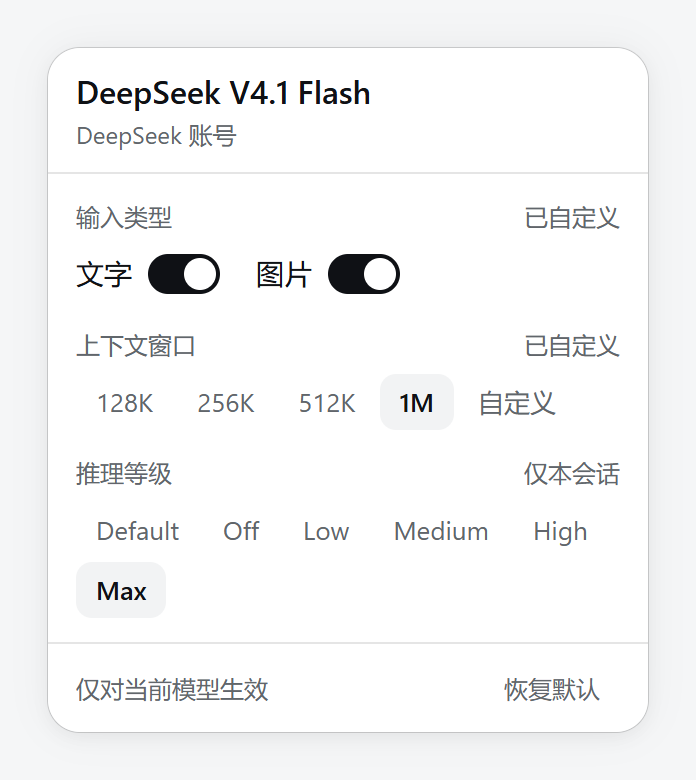
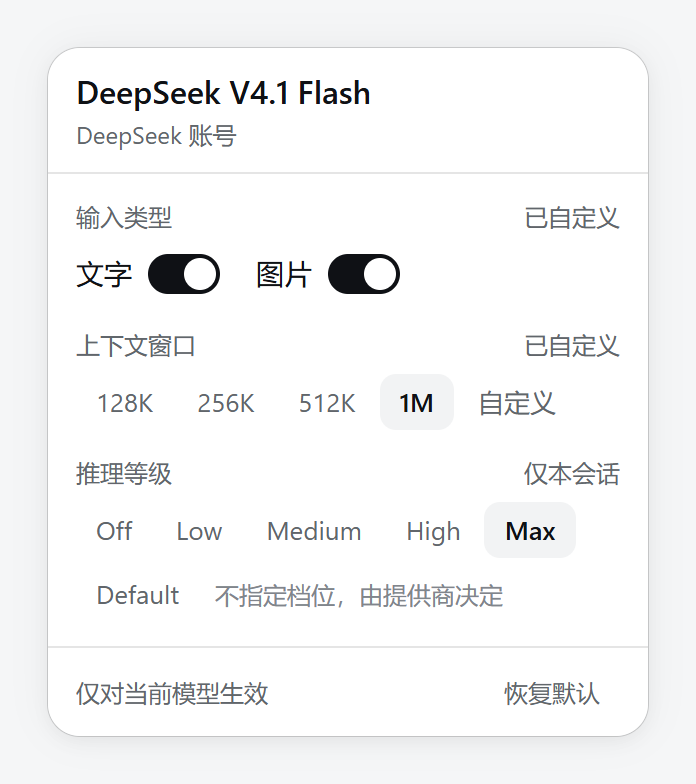
feat: 推理等级拆刻度行与 Default 行，更新参数面板预览

diff --git a/lib/client.js b/lib/client.js
@@ -252,6 +252,7 @@ window.__ModuleLoader__.load({
       "settings.context.placeholderExample": "例如 128K",
       "settings.context.invalid": "读不出这个数值：请写 128K、1M 或 131072，范围 1024–10485760",
       "settings.effort.title": "推理等级",
+      "settings.effort.providerDefaultHint": "不指定档位，由提供商决定",
       "settings.source.declared": "已自定义",
       "settings.source.catalog": "内置目录",
       "settings.source.default": "适配器默认",
@@ -332,6 +333,7 @@ window.__ModuleLoader__.load({
       "settings.context.placeholderExample": "e.g. 128K",
       "settings.context.invalid": "That is not a capacity: use 128K, 1M or 131072, between 1024 and 10485760",
       "settings.effort.title": "Reasoning effort",
+      "settings.effort.providerDefaultHint": "No level; the provider decides",
       "settings.source.declared": "Customized",
       "settings.source.catalog": "Catalog",
       "settings.source.default": "Adapter default",
@@ -6120,10 +6122,10 @@ window.__ModuleLoader__.load({
       return reasoning.efforts.find((level) => level.id === effort)?.name ?? effort;
     }
     function effortChoicesOf(reasoning, t2) {
-      return [
-        ...reasoning.defaultEffort === void 0 ? [{ key: "provider-default", effort: void 0, label: t2("effort.providerDefault") }] : [],
-        ...reasoning.efforts.map((level) => ({ key: `effort:${level.id}`, effort: level.id, label: level.name }))
-      ];
+      return {
+        scale: reasoning.efforts.map((level) => ({ key: `effort:${level.id}`, effort: level.id, label: level.name })),
+        ...reasoning.defaultEffort === void 0 ? { providerDefault: { key: "provider-default", effort: void 0, label: t2("effort.providerDefault") } } : {}
+      };
     }
     
     var CHAIN_SELECTOR = "a[href], button, input, select, textarea, [tabindex]";
@@ -6392,7 +6394,7 @@ window.__ModuleLoader__.load({
       const model = route === null ? null : modelOf(directory, route);
       const reasoning = model?.reasoning;
       const choices = (0, import_react6.useMemo)(
-        () => reasoning === void 0 ? [] : effortChoicesOf(reasoning, t2),
+        () => reasoning === void 0 ? { scale: [] } : effortChoicesOf(reasoning, t2),
         [reasoning, t2]
       );
       const activeEffort = current?.reasoningEffort ?? reasoning?.defaultEffort;
@@ -6401,6 +6403,7 @@ window.__ModuleLoader__.load({
       const inputLabelId = `${idPrefix}-settings-input-label`;
       const contextLabelId = `${idPrefix}-settings-context-label`;
       const effortLabelId = `${idPrefix}-settings-effort-label`;
+      const effortDefaultHintId = `${idPrefix}-settings-effort-default-hint`;
       const copyState = { address, capability, snapshot, capacityError };
       const noticeLine = noticeOf(copyState);
       const sectionNotice = noticeLine === null ? null : t2(noticeLine.key, noticeLine.params);
@@ -6594,6 +6597,22 @@ window.__ModuleLoader__.load({
           ...effort === void 0 ? {} : { reasoningEffort: effort }
         });
       };
+      const effortOption = (choice, describedBy) => /* @__PURE__ */ (0, import_jsx_runtime8.jsx)(
+        "button",
+        {
+          type: "button",
+          role: "radio",
+          "aria-checked": choice.effort === activeEffort,
+          "aria-describedby": describedBy,
+          className: "dmp-effort-item",
+          "aria-disabled": busy || void 0,
+          onClick: () => {
+            pickEffort(choice.effort);
+          },
+          children: choice.label
+        },
+        choice.key
+      );
       if (route === null) return null;
       const notice = writeError !== null ? /* @__PURE__ */ (0, import_jsx_runtime8.jsxs)("div", { className: "dmp-settings-alert", role: "alert", children: [
         /* @__PURE__ */ (0, import_jsx_runtime8.jsx)(import_dsh_client_ui_primitives2.IconWarningOutlineRegular, { className: "dmp-settings-alert-icon" }),
@@ -6738,21 +6757,13 @@ window.__ModuleLoader__.load({
                     /* @__PURE__ */ (0, import_jsx_runtime8.jsx)("span", { className: "zmd-label", id: effortLabelId, children: t2("settings.effort.title") }),
                     /* @__PURE__ */ (0, import_jsx_runtime8.jsx)("span", { className: "dmp-settings-source", children: t2("settings.source.session") })
                   ] }),
-                  /* @__PURE__ */ (0, import_jsx_runtime8.jsx)("div", { className: "dmp-effort-list", role: "radiogroup", "aria-labelledby": effortLabelId, children: choices.map((choice) => /* @__PURE__ */ (0, import_jsx_runtime8.jsx)(
-                    "button",
-                    {
-                      type: "button",
-                      role: "radio",
-                      "aria-checked": choice.effort === activeEffort,
-                      className: "dmp-effort-item",
-                      "aria-disabled": busy || void 0,
-                      onClick: () => {
-                        pickEffort(choice.effort);
-                      },
-                      children: choice.label
-                    },
-                    choice.key
-                  )) })
+                  /* @__PURE__ */ (0, import_jsx_runtime8.jsxs)("div", { className: "dmp-effort-rows", role: "radiogroup", "aria-labelledby": effortLabelId, children: [
+                    choices.scale.length > 0 && /* @__PURE__ */ (0, import_jsx_runtime8.jsx)("div", { className: "dmp-effort-scale", children: choices.scale.map((choice) => effortOption(choice)) }),
+                    choices.providerDefault !== void 0 && /* @__PURE__ */ (0, import_jsx_runtime8.jsxs)("div", { className: "dmp-effort-default", children: [
+                      effortOption(choices.providerDefault, effortDefaultHintId),
+                      /* @__PURE__ */ (0, import_jsx_runtime8.jsx)("span", { className: "dmp-effort-hint", id: effortDefaultHintId, children: t2("settings.effort.providerDefaultHint") })
+                    ] })
+                  ] })
                 ] })
               ] }),
               /* @__PURE__ */ (0, import_jsx_runtime8.jsxs)("div", { className: "dmp-settings-foot", children: [
@@ -8711,13 +8722,38 @@ window.__ModuleLoader__.load({
       white-space: nowrap;
     }
     
-    .dmp-effort-list,
+    .dmp-effort-rows {
+      display: flex;
+      flex-direction: column;
+      gap: 4px;
+    }
+    
+    .dmp-effort-scale,
     .dmp-context-presets {
       display: flex;
       flex-direction: row;
       flex-wrap: wrap;
       align-items: center;
       gap: 2px;
+    }
+    
+    .dmp-effort-scale {
+      row-gap: 4px;
+    }
+    
+    .dmp-effort-default {
+      display: flex;
+      align-items: center;
+      gap: 8px;
+      min-height: 28px;
+    }
+    
+    .dmp-effort-hint {
+      flex: 0 1 auto;
+      min-width: 0;
+      color: var(--zmd-ink-mute);
+      font-size: 12px;
+      line-height: 18px;
     }
     
     .dmp-effort-item,

diff --git a/src/client/SettingsMenu.tsx b/src/client/SettingsMenu.tsx
@@ -11,7 +11,7 @@ import {
   type ModelSelection, type ParamsFace, type ParamsSnapshot, type RouteAddress, type RouteCapability,
   type SettingsOp, type Translate,
 } from './contract.ts'
-import { effortChoicesOf } from './effort.ts'
+import { effortChoicesOf, type EffortChoice, type EffortChoices } from './effort.ts'
 import { formatWindow } from './format.ts'
 import {
   capacityAction, contextFactOf, contextFieldOf, FACT_SOURCE_KEYS, inputSourceOf, modalityLabel,
@@ -95,8 +95,8 @@ export function SettingsMenu({
   }, [capabilities, route?.provider])
   const model = route === null ? null : modelOf(directory, route)
   const reasoning = model?.reasoning
-  const choices = useMemo(
-    () => reasoning === undefined ? [] : effortChoicesOf(reasoning, t),
+  const choices = useMemo<EffortChoices>(
+    () => reasoning === undefined ? { scale: [] } : effortChoicesOf(reasoning, t),
     [reasoning, t],
   )
   const activeEffort = current?.reasoningEffort ?? reasoning?.defaultEffort
@@ -105,6 +105,7 @@ export function SettingsMenu({
   const inputLabelId = `${idPrefix}-settings-input-label`
   const contextLabelId = `${idPrefix}-settings-context-label`
   const effortLabelId = `${idPrefix}-settings-effort-label`
+  const effortDefaultHintId = `${idPrefix}-settings-effort-default-hint`
 
   const copyState = { address, capability, snapshot, capacityError } as const
   const noticeLine = noticeOf(copyState)
@@ -318,6 +319,21 @@ export function SettingsMenu({
     })
   }
 
+  const effortOption = (choice: EffortChoice, describedBy?: string): ReactNode => (
+    <button
+      key={choice.key}
+      type="button"
+      role="radio"
+      aria-checked={choice.effort === activeEffort}
+      aria-describedby={describedBy}
+      className="dmp-effort-item"
+      aria-disabled={busy || undefined}
+      onClick={() => { pickEffort(choice.effort) }}
+    >
+      {choice.label}
+    </button>
+  )
+
   if (route === null) return null
 
   const notice: ReactNode = writeError !== null
@@ -465,20 +481,20 @@ export function SettingsMenu({
               <span className="zmd-label" id={effortLabelId}>{t('settings.effort.title')}</span>
               <span className="dmp-settings-source">{t('settings.source.session')}</span>
             </div>
-            <div className="dmp-effort-list" role="radiogroup" aria-labelledby={effortLabelId}>
-              {choices.map(choice => (
-                <button
-                  key={choice.key}
-                  type="button"
-                  role="radio"
-                  aria-checked={choice.effort === activeEffort}
-                  className="dmp-effort-item"
-                  aria-disabled={busy || undefined}
-                  onClick={() => { pickEffort(choice.effort) }}
-                >
-                  {choice.label}
-                </button>
-              ))}
+            <div className="dmp-effort-rows" role="radiogroup" aria-labelledby={effortLabelId}>
+              {choices.scale.length > 0 && (
+                <div className="dmp-effort-scale">
+                  {choices.scale.map(choice => effortOption(choice))}
+                </div>
+              )}
+              {choices.providerDefault !== undefined && (
+                <div className="dmp-effort-default">
+                  {effortOption(choices.providerDefault, effortDefaultHintId)}
+                  <span className="dmp-effort-hint" id={effortDefaultHintId}>
+                    {t('settings.effort.providerDefaultHint')}
+                  </span>
+                </div>
+              )}
             </div>
           </div>
         )}

diff --git a/src/client/effort.ts b/src/client/effort.ts
@@ -6,16 +6,21 @@ export interface EffortChoice {
   readonly label: string
 }
 
+export interface EffortChoices {
+  readonly scale: readonly EffortChoice[]
+  readonly providerDefault?: EffortChoice
+}
+
 export function effortLabelOf(reasoning: ModelReasoning, effort: string | undefined, t: Translate): string {
   if (effort === undefined) return t('effort.providerDefault')
   return reasoning.efforts.find(level => level.id === effort)?.name ?? effort
 }
 
-export function effortChoicesOf(reasoning: ModelReasoning, t: Translate): EffortChoice[] {
-  return [
+export function effortChoicesOf(reasoning: ModelReasoning, t: Translate): EffortChoices {
+  return {
+    scale: reasoning.efforts.map(level => ({ key: `effort:${level.id}`, effort: level.id, label: level.name })),
     ...reasoning.defaultEffort === undefined
-      ? [{ key: 'provider-default', effort: undefined, label: t('effort.providerDefault') }]
-      : [],
-    ...reasoning.efforts.map(level => ({ key: `effort:${level.id}`, effort: level.id, label: level.name })),
-  ]
+      ? { providerDefault: { key: 'provider-default', effort: undefined, label: t('effort.providerDefault') } }
+      : {},
+  }
 }

diff --git a/src/client/dictionary.ts b/src/client/dictionary.ts
@@ -75,6 +75,7 @@ export const zh: Record<string, string> = {
   'settings.context.placeholderExample': '例如 128K',
   'settings.context.invalid': '读不出这个数值：请写 128K、1M 或 131072，范围 1024–10485760',
   'settings.effort.title': '推理等级',
+  'settings.effort.providerDefaultHint': '不指定档位，由提供商决定',
   'settings.source.declared': '已自定义',
   'settings.source.catalog': '内置目录',
   'settings.source.default': '适配器默认',
@@ -156,6 +157,7 @@ export const en: Record<string, string> = {
   'settings.context.placeholderExample': 'e.g. 128K',
   'settings.context.invalid': 'That is not a capacity: use 128K, 1M or 131072, between 1024 and 10485760',
   'settings.effort.title': 'Reasoning effort',
+  'settings.effort.providerDefaultHint': 'No level; the provider decides',
   'settings.source.declared': 'Customized',
   'settings.source.catalog': 'Catalog',
   'settings.source.default': 'Adapter default',

diff --git a/src/client/styles.ts b/src/client/styles.ts
@@ -923,13 +923,38 @@ const CSS = `
   white-space: nowrap;
 }
 
-.dmp-effort-list,
+.dmp-effort-rows {
+  display: flex;
+  flex-direction: column;
+  gap: 4px;
+}
+
+.dmp-effort-scale,
 .dmp-context-presets {
   display: flex;
   flex-direction: row;
   flex-wrap: wrap;
   align-items: center;
   gap: 2px;
+}
+
+.dmp-effort-scale {
+  row-gap: 4px;
+}
+
+.dmp-effort-default {
+  display: flex;
+  align-items: center;
+  gap: 8px;
+  min-height: 28px;
+}
+
+.dmp-effort-hint {
+  flex: 0 1 auto;
+  min-width: 0;
+  color: var(--zmd-ink-mute);
+  font-size: 12px;
+  line-height: 18px;
 }
 
 .dmp-effort-item,

diff --git a/docs/adr/0013-reasoning-effort-two-rows.md b/docs/adr/0013-reasoning-effort-two-rows.md
@@ -1,0 +1,52 @@
+# ADR 0013 — 推理等级改「刻度行 + Default 行」：Default 不是档位，Off 仍是刻度起点
+
+- 状态：已采纳（2026-10-19）
+- 相关：`src/client/effort.ts`、`src/client/SettingsMenu.tsx`、`src/client/styles.ts`、`src/client/dictionary.ts`
+- 相关决定：ADR [0012](0012-parameter-panel-readout.md)（参数面板读数优先）、`CONTEXT.md`「推理等级选择」
+
+## 背景
+
+推理等级原来是一组平铺胶囊：Default（`defaultEffort` 未声明时才有）+ 适配器声明的全部档位。300px 面板的内容宽 272px，六项按 13/20、10px 内边距量是 312.5px（Default 61.5 / Off 38 / Low 43 / Medium 67.5 / High 47 / Max 45.5 + 5×2 缝）；前五项 265px，Max 放不下，掉到第二行。实测与截图一致。
+
+这不是单个模型的偶发换行：档位名由适配器声明，目前 schema 允许 off / minimal / low / medium / high / xhigh / max 七档；六档就约 317px，即使没有 Default，刻度自己也会换行。把字号或水平内边距压小去换单行，会破坏宿主字阶和点击面，而且对更长、更多的档位仍然不成立。
+
+更根本的问题是三类东西被放进了同一条一维序列：
+
+1. **Default** 是 `effort === undefined` 的「不指定」，由插件生成；只有 `defaultEffort` 未声明时才出现。它不是档位。
+2. **Off** 是适配器声明的档位，语义上是刻度的 0 点（Off < Low < Medium < High < Max）。它在配置页里的特殊性（不用填 API 值）属于编辑器校验，不是选择器的排序语义。
+3. **Low…Max** 是同一根轴上的有序档位。
+
+平铺让 Default 和 Off 看起来像「低于 Low 的两档」，而换行又把 Max 推成孤儿；宽度的偶然性和语义的偶然性叠在一起。
+
+## 决定
+
+1. 推理等级分成两行：第一行是适配器声明的全部档位，按声明顺序渲染（不排序、不重排）；第二行是 Default，只在它存在时出现。
+2. Default 仍属于同一个 `radiogroup`，仍用同一种胶囊；旁边加一句 12/18 注释「不指定档位，由提供商决定」（英文「No level; the provider decides」），用 `--zmd-ink-mute`，让第二行是「另一种状态」而不是被挤下来的孤儿。
+3. DOM 顺序与视觉顺序一致：刻度先、Default 后。禁止用 CSS `order` 把 Default 挪到下面——Tab 顺序和 `chain()` 会错。
+4. 档位行保留 2px 列距，换行时用 4px 行距（`.dmp-effort-scale { row-gap: 4px }`）；换行时第二行读成刻度的续行，而不是另一组选项。
+5. 不把 Off 抽成特殊项：选择器没有 severity 可读，要抽只能硬编码 `id === 'off'` 或假设第一项是 Off；两者都会在「模型没声明 Off」或「声明顺序不同」时出错。
+6. Default 不出现时（提供商声明了 `defaultEffort`），只剩刻度行；不预留空行。
+7. 这是呈现改动：`reasoningEffort` 的取值、会话级、写入路径、只读行为、`effortChoicesOf` 的 `effort` 语义都不变。
+
+## 取舍
+
+- **放弃「一排塞下六项」**：313px > 272px 是结构性的；压字号/padding 只能暂时过关，且与宿主字阶冲突。
+- **放弃 B「Default + Off 一行，刻度一行」**：视觉上更整齐，但 Off 离开刻度起点，且两个条件项都可能缺席（Default 需要没有 `defaultEffort`，Off 可以被删），组会塌；它把「未指定」（不发送值）和「显式 off」（发送一个值）说成同一类。
+- **放弃把 Default 做成 `.zmd-btn-ghost` 文字动作**：页脚已有「恢复默认」（重置上下文/输入），两个「默认」动作在同一面板里会打架；胶囊 + 注释仍是 radio 语法。
+- **放弃下拉、横向滚动、折叠**：ADR 0012 已经因为「当前值和可选项不能同时看见」否掉了下拉；横向滚动会把选项藏起来。
+- **保留 4px 行距**：2px 时换行像一整块密集菜单；4px 足够读出「续行」，又不多占高度。
+
+## 后果
+
+- `.dmp-effort-list` 退役，新增 `.dmp-effort-rows` / `.dmp-effort-scale` / `.dmp-effort-default` / `.dmp-effort-hint`；`.dmp-effort-item`、选中态、hover、focus、禁用态、`chain()` 选择器都不变。
+- 新增文案键 `settings.effort.providerDefaultHint`；中英同键同序。
+- 这个模型（Off/Low/Medium/High/Max + Default）从「2 行、Max 孤儿」变成「刻度 1 行 + Default 1 行」，高度基本不变（约 60px）。6–7 档时刻度自己会换到第二行，加 Default 共 3 行（约 92px），仍在参数面板 460px 上限内；展开自定义上下文输入框时需静态复核。
+- 选中态字重 400→500 会让胶囊宽 1–2.5px；5 档刻度有约 23px 余量，不会因选中改变换行点。6 档时第一行只剩 0.5–2.5px 余量，选中可能改变换行点；这轮不预先加「隐藏 semibold 占位」，真机若看到抖动再补。
+- 只在静态 fixture 里按 300px、13/20、10px 内边距测量和中英预览；**不是真机验收**，宿主字体（尤其 macOS）与浏览器缩放可能让断点略有差异。
+
+## 备选（未采用）
+
+- **只把 Default 挪到列表末尾**：第二行仍然是一个没有解释的孤儿，换行点随宽度漂移。
+- **把 Default 与 Off 并成「特殊项」组**：见取舍。
+- **把 Default 放进读数行**：读数行是值/来源的语义，且右端已有 88px 的「仅本会话」；把控件塞进去会读成当前值，不是选项。
+- **用网格/折叠消灭所有孤儿**：改动大于收益；6 档以上的换行仍是可接受的刻度续行。

diff --git a/CONTEXT.md b/CONTEXT.md
@@ -125,6 +125,7 @@
 | 列头 | 模型列表顶部那行 11/16 弱墨：文 / 图 / 推 / 窗口，与行内四列徽章**右对齐对齐** | 不是 eyebrow；不是可点排序头；不是装饰性表头 |
 | 参数读数 | 参数面板每段的第一行：标签 12/500 在左，来源标签在右端占 88px 一列；**值只在控件无法显示时出现**——输入类型由两个开关陈述（额外模态除外），已声明上下文由选中的档位或自定义输入框陈述，推理等级由选中的胶囊陈述；只有上下文继承态（输入框为空）由读数补出生效值，未声明时写「未设置」。上下文读数是 `formatWindow` 的友好值（`262K`），自定义输入框保留 `formatContext` 的精确 token（`262144`） | 不是表格行（没有列语义）；不是表单标签（值不是输入框的 placeholder）；不是第二个控件；不是把控件里已有的值在读数行再写一遍 |
 | 上下文档位 | 上下文窗口那一行的四个常用档位 128K / 256K / 512K / 1M（十进制 K/M，与输入框同一语法）+「自定义」；选中档位时输入框不出现，选自定义才出现输入框。档位选中 = `--zmd-hover` 底 + 500；继承态不预选档位 | 不是模型能力上限；不是二进制容量表（262144 落到自定义）；不是五个以上固定档位 |
+| 推理等级选择 | 参数面板里推理等级的两行构图：第一行是适配器声明的全部档位（按声明顺序，Off 通常在最前），第二行是单独的 Default（不指定，只在没有提供商默认时出现）+ 一句 12/18 注释；两行同属一个 radiogroup，DOM 顺序与视觉顺序一致（别名 `.dmp-effort-rows`） | 不是把 Off 抽出来的「特殊项组」——Off 是刻度的 0 点；不是把 Default 做成页脚那种「恢复默认」动作；不是一组平铺的同类胶囊 |
 | 来源标签 | 参数读数右端的 12/400 弱墨短词，只回答「这个值从哪来」：已自定义 / 内置目录 / 适配器默认 / 未声明；推理等级固定为仅本会话 | 不是状态徽章（不表示可用/失败）；不是按钮；不是说明句——原来的条件句已退役 |
 | 内容列 | 「模型配置」页内容列最宽 720px；容器查询在 484 / 400 / 300 / 240 四个断点换构图 | 不是固定宽度；不是靠宿主视口宽度判断 |
 | 静态预览 | 用真实样式表 + 宿主真实 token 渲染的 HTML fixture 截图，不是真机截图 | 不是 GUI 验收；不证明滚动、焦点链与 Esc 分层 |
@@ -163,6 +164,7 @@
 | 模型抽屉 / 抽屉 | 废弃 | 模型目录区——右侧抽屉已改成账本行内的展开区：fixed / scrim / `aria-modal` / 焦点陷阱随之退役，`dmc-drawer*` 进同一份退役名单 |
 | 模型格 | 废弃 | 模型设置门——旧版行内陈述「N 个模型 / 默认」并带箭头的触发；2026-10-19 起改为与「提供商设置门」同档的「模型设置」按钮 |
 | `.dmc-models-value` / `.dmc-chevron` | 废弃 | 无对应术语——旧版「模型格」里的计数值与展开箭头，随触发改成「模型设置门」一并退役 |
+| `.dmp-effort-list` | 废弃 | 推理等级选择——旧版单行胶囊列表的容器类；2026-10-19 起拆成 `.dmp-effort-rows` 下的刻度行与 Default 行 |
 | 答案词 | 废弃 | 状态点——旧版账本行右端的可见状态词已退役，语义词只留在点的 `aria-label` 与悬停 `title` 里 |
 | 写入位置（面板里的可见区块） | 废弃 | 无对应视觉——参数面板不再画路径区块；原始写入路径只在页脚范围句的 `title` 里 |
 | 参数说明句 / 面板长说明 | 废弃 | 来源标签 / 上下文占位句——`settings.input.*`、`settings.context.declared`/`default`/`capability`/`unset` 与 `settings.note` 的条件说明已退役 |
